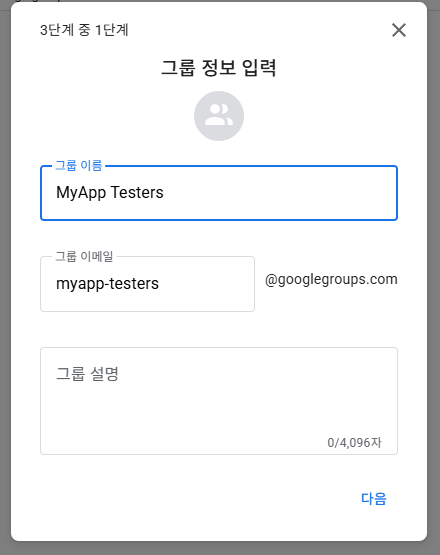
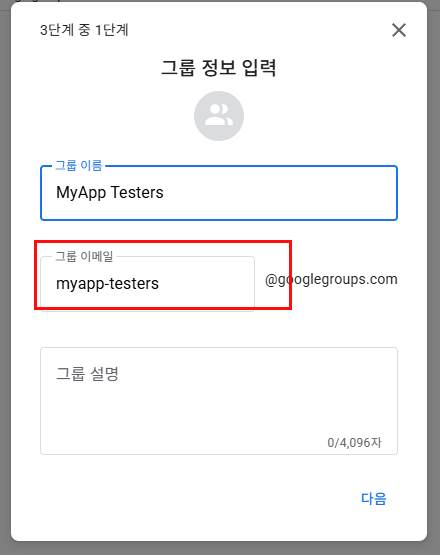
Put the photos back where they were written
The app lets you drop a photo mid-sentence: it writes [img1] into the body
and paints the picture at that spot. The web never learned that. Readers saw
the marker as literal text and every photo pushed to the bottom, so a walk-
through read as five paragraphs followed by five unexplained screenshots.
Twelve posts were affected — every one with a photo in it.

The web now follows the same rule as the app, down to appending photos the
body never referenced.

Also: the Google Group guide showed Korean console screenshots to everyone.
Captured the English console for the two group-creation steps and pointed the
non-Korean blocks at those, and boxed the fields to look at in red.

Changed region(s): [[0.0591, 0.4288, 0.6795, 0.5514], [0.0886, 0.5514, 0.65, 0.582]]

diff --git a/guides/google-group.html b/guides/google-group.html
@@ -200,14 +200,14 @@ const DOC = {
   click Create group. The name is free-form; the email prefix becomes the address
   you hand out.</p>
 
-  ${SHOT('/img/guide-group-1.png', 'The email prefix becomes the group address — myapp-testers@googlegroups.com')}
+  ${SHOT('/img/guide-group-1-en.png', 'The email prefix becomes the group address — myapp-testers@googlegroups.com')}
 
   <h2>2. This is where most people get it wrong</h2>
 
   <p>The next screen is the one that matters. Leave the defaults and
   <b>nobody can get in.</b></p>
 
-  ${SHOT('/img/guide-group-2.png', 'Change these two. They default to "Group members" and "Invited users only"')}
+  ${SHOT('/img/guide-group-2-en.png', 'Change these two. They default to "Group members" and "Invited users only"')}
 
   <ul>
     <li><b>Who can search for the group</b> → Anyone on the web</li>
@@ -312,13 +312,13 @@ const DOC = {
   <p><a href="https://groups.google.com/my-groups" target="_blank" rel="noopener">groups.google.com</a>
   で［グループを作成］。名前は自由で、メールの前半が後で配るアドレスになります。</p>
 
-  ${SHOT('/img/guide-group-1.png', 'メールの前半がグループのアドレスになります — myapp-testers@googlegroups.com')}
+  ${SHOT('/img/guide-group-1-en.png', 'メールの前半がグループのアドレスになります — myapp-testers@googlegroups.com')}
 
   <h2>2. ここでほとんどの人がつまずく</h2>
 
   <p>次の画面が本番です。既定のままだと<b>誰も入れません。</b></p>
 
-  ${SHOT('/img/guide-group-2.png', 'この二つを変えます。既定は「グループのメンバー」と「招待されたユーザーのみ」です')}
+  ${SHOT('/img/guide-group-2-en.png', 'この二つを変えます。既定は「グループのメンバー」と「招待されたユーザーのみ」です')}
 
   <ul>
     <li><b>グループを検索できるユーザー</b> → ウェブ上の全員</li>
@@ -419,13 +419,13 @@ const DOC = {
   <p>在 <a href="https://groups.google.com/my-groups" target="_blank" rel="noopener">groups.google.com</a>
   点击［创建群组］。名称随意，邮箱前缀就是你之后要发出去的地址。</p>
 
-  ${SHOT('/img/guide-group-1.png', '邮箱前缀就是群组地址 — myapp-testers@googlegroups.com')}
+  ${SHOT('/img/guide-group-1-en.png', '邮箱前缀就是群组地址 — myapp-testers@googlegroups.com')}
 
   <h2>2. 大多数人在这一步弄错</h2>
 
   <p>下一屏才是关键。保持默认设置，<b>谁也进不来。</b></p>
 
-  ${SHOT('/img/guide-group-2.png', '要改这两项。默认是「群组成员」和「仅受邀用户」')}
+  ${SHOT('/img/guide-group-2-en.png', '要改这两项。默认是「群组成员」和「仅受邀用户」')}
 
   <ul>
     <li><b>谁可以搜索到群组</b> → 网络上的所有人</li>
@@ -518,13 +518,13 @@ const DOC = {
   <p>在 <a href="https://groups.google.com/my-groups" target="_blank" rel="noopener">groups.google.com</a>
   點擊［建立群組］。名稱隨意，信箱前綴就是你之後要發出去的地址。</p>
 
-  ${SHOT('/img/guide-group-1.png', '信箱前綴就是群組地址 — myapp-testers@googlegroups.com')}
+  ${SHOT('/img/guide-group-1-en.png', '信箱前綴就是群組地址 — myapp-testers@googlegroups.com')}
 
   <h2>2. 多數人在這一步弄錯</h2>
 
   <p>下一頁才是關鍵。保持預設值，<b>誰也進不來。</b></p>
 
-  ${SHOT('/img/guide-group-2.png', '要改這兩項。預設是「群組成員」和「僅受邀使用者」')}
+  ${SHOT('/img/guide-group-2-en.png', '要改這兩項。預設是「群組成員」和「僅受邀使用者」')}
 
   <ul>
     <li><b>誰可以搜尋到群組</b> → 網路上的所有人</li>

diff --git a/community.html b/community.html
@@ -97,7 +97,8 @@ function list() {
           ${esc(p.author_name || t('developer'))} · ${ago(p.created_at)}
           ${p.comment_count ? `<span class="sep">·</span>
             <span class="dim">${t('comments')} ${p.comment_count}</span>` : ''}</p>
-        ${p.content ? `<p class="desc line2">${esc(p.content)}</p>` : ''}
+        ${p.content ? `<p class="desc line2">${esc(
+          p.content.replace(/\[img\d+\]/g, ' ').trim())}</p>` : ''}
       </div>`).join('') : `<p class="muted">${t('no_posts')}</p>`}</div>`;
 
   applyDom();
@@ -117,6 +118,37 @@ function list() {
   if (l) l.onclick = () => signIn().catch((e) => alert(e.message));
 }
 
+/// 본문 안의 [imgN] 자리에 그 번호의 사진을 끼워 넣는다.
+/// 앱(community_screen.dart _bodyWithImages)과 같은 규칙이어야, 같은 글이
+/// 두 곳에서 다르게 보이지 않는다.
+function bodyWithImages(content, images) {
+  const imgs = images || [];
+  const text = content || '';
+  const used = new Set();
+  let out = '';
+  let cursor = 0;
+  const re = /\[img(\d+)\]/g;
+  let m;
+  while ((m = re.exec(text)) !== null) {
+    const i = parseInt(m[1], 10) - 1;
+    // 없는 번호는 표시만 지운다 — 사진을 지운 뒤 남은 자국이다
+    const before = text.slice(cursor, m.index);
+    if (before.trim()) out += `<p class="desc pre">${esc(before.trim())}</p>`;
+    if (i >= 0 && i < imgs.length) {
+      out += `<img class="shot" src="${esc(imgs[i])}" alt="">`;
+      used.add(i);
+    }
+    cursor = m.index + m[0].length;
+  }
+  const rest = text.slice(cursor);
+  if (rest.trim()) out += `<p class="desc pre">${esc(rest.trim())}</p>`;
+  // 본문에서 안 부른 사진은 뒤에 붙인다
+  imgs.forEach((u, i) => {
+    if (!used.has(i)) out += `<img class="shot" src="${esc(u)}" alt="">`;
+  });
+  return out || `<p class="desc pre"></p>`;
+}
+
 async function open(id) {
   root.innerHTML = `<p class="muted">${t('loading')}</p>`;
   const p = await post(id).catch(() => null);
@@ -128,8 +160,7 @@ async function open(id) {
         <span class="tag sky">${catLabel(p.category)}</span> ${esc(p.title || '')}</p>
       <p class="muted who">${iconHtml(p.author_icon, p.author_name || '?', 'dev-icon')}
         ${esc(p.author_name || t('developer'))} · ${ago(p.created_at)}</p>
-      <p class="desc pre">${esc(p.content || '')}</p>
-      ${(p.images || []).map((u) => `<img class="shot" src="${esc(u)}" alt="">`).join('')}
+      ${bodyWithImages(p.content, p.images)}
       ${ME && p.author_id === ME.id
         ? `<p style="margin:14px 0 0"><button class="btn ghost sm" id="del">${t('delete')}</button></p>` : ''}
     </div>

diff --git a/ja/guides/google-group.html b/ja/guides/google-group.html
@@ -74,13 +74,13 @@
   <p><a href="https://groups.google.com/my-groups" target="_blank" rel="noopener">groups.google.com</a>
   で［グループを作成］。名前は自由で、メールの前半が後で配るアドレスになります。</p>
 
-  <figure><img src="/img/guide-group-1.png" alt="" loading="lazy"><figcaption>メールの前半がグループのアドレスになります — myapp-testers@googlegroups.com</figcaption></figure>
+  <figure><img src="/img/guide-group-1-en.png" alt="" loading="lazy"><figcaption>メールの前半がグループのアドレスになります — myapp-testers@googlegroups.com</figcaption></figure>
 
   <h2>2. ここでほとんどの人がつまずく</h2>
 
   <p>次の画面が本番です。既定のままだと<b>誰も入れません。</b></p>
 
-  <figure><img src="/img/guide-group-2.png" alt="" loading="lazy"><figcaption>この二つを変えます。既定は「グループのメンバー」と「招待されたユーザーのみ」です</figcaption></figure>
+  <figure><img src="/img/guide-group-2-en.png" alt="" loading="lazy"><figcaption>この二つを変えます。既定は「グループのメンバー」と「招待されたユーザーのみ」です</figcaption></figure>
 
   <ul>
     <li><b>グループを検索できるユーザー</b> → ウェブ上の全員</li>

diff --git a/zh-Hans/guides/google-group.html b/zh-Hans/guides/google-group.html
@@ -74,13 +74,13 @@
   <p>在 <a href="https://groups.google.com/my-groups" target="_blank" rel="noopener">groups.google.com</a>
   点击［创建群组］。名称随意，邮箱前缀就是你之后要发出去的地址。</p>
 
-  <figure><img src="/img/guide-group-1.png" alt="" loading="lazy"><figcaption>邮箱前缀就是群组地址 — myapp-testers@googlegroups.com</figcaption></figure>
+  <figure><img src="/img/guide-group-1-en.png" alt="" loading="lazy"><figcaption>邮箱前缀就是群组地址 — myapp-testers@googlegroups.com</figcaption></figure>
 
   <h2>2. 大多数人在这一步弄错</h2>
 
   <p>下一屏才是关键。保持默认设置，<b>谁也进不来。</b></p>
 
-  <figure><img src="/img/guide-group-2.png" alt="" loading="lazy"><figcaption>要改这两项。默认是「群组成员」和「仅受邀用户」</figcaption></figure>
+  <figure><img src="/img/guide-group-2-en.png" alt="" loading="lazy"><figcaption>要改这两项。默认是「群组成员」和「仅受邀用户」</figcaption></figure>
 
   <ul>
     <li><b>谁可以搜索到群组</b> → 网络上的所有人</li>

diff --git a/zh-Hant/guides/google-group.html b/zh-Hant/guides/google-group.html
@@ -74,13 +74,13 @@
   <p>在 <a href="https://groups.google.com/my-groups" target="_blank" rel="noopener">groups.google.com</a>
   點擊［建立群組］。名稱隨意，信箱前綴就是你之後要發出去的地址。</p>
 
-  <figure><img src="/img/guide-group-1.png" alt="" loading="lazy"><figcaption>信箱前綴就是群組地址 — myapp-testers@googlegroups.com</figcaption></figure>
+  <figure><img src="/img/guide-group-1-en.png" alt="" loading="lazy"><figcaption>信箱前綴就是群組地址 — myapp-testers@googlegroups.com</figcaption></figure>
 
   <h2>2. 多數人在這一步弄錯</h2>
 
   <p>下一頁才是關鍵。保持預設值，<b>誰也進不來。</b></p>
 
-  <figure><img src="/img/guide-group-2.png" alt="" loading="lazy"><figcaption>要改這兩項。預設是「群組成員」和「僅受邀使用者」</figcaption></figure>
+  <figure><img src="/img/guide-group-2-en.png" alt="" loading="lazy"><figcaption>要改這兩項。預設是「群組成員」和「僅受邀使用者」</figcaption></figure>
 
   <ul>
     <li><b>誰可以搜尋到群組</b> → 網路上的所有人</li>
